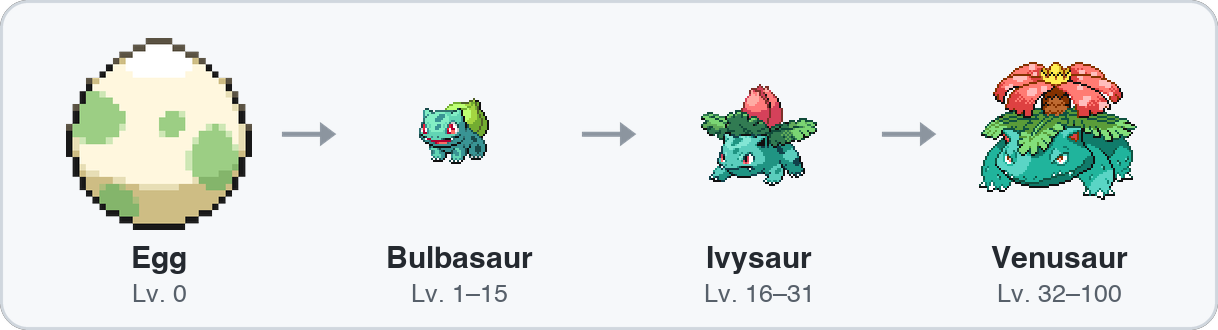
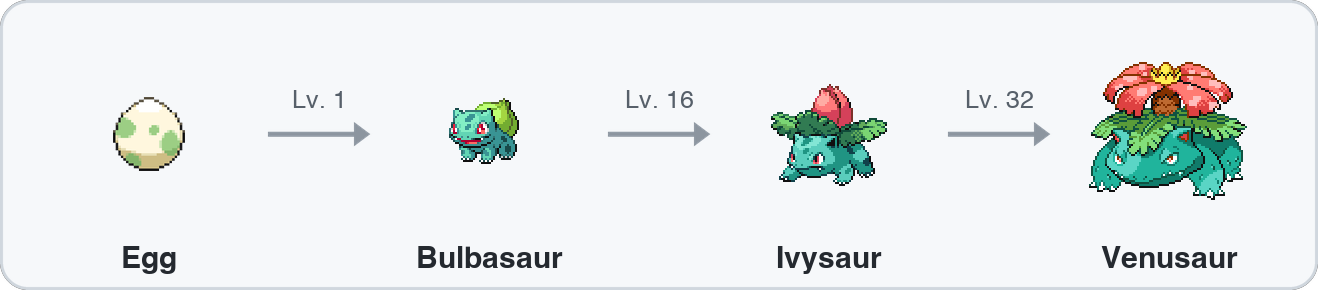
README: simplify progression and friendship visuals
Shrink the egg to match stage-1 sprites, show evolution levels above the
arrows, drop the starter-line table and the heart-burst text, make the
friendship image caption-free, and center/double the header sprites.

diff --git a/README.md b/README.md
@@ -1,9 +1,9 @@
 # PokeTasks
 
-<p>
-  <img src="Assets/Sprites/Gen_1/bulbasaur.png" width="64" alt="Bulbasaur">
-  <img src="Assets/Sprites/Gen_1/charmander.png" width="64" alt="Charmander">
-  <img src="Assets/Sprites/Gen_1/squirtle.png" width="64" alt="Squirtle">
+<p align="center">
+  <img src="Assets/Sprites/Gen_1/bulbasaur.png" width="128" alt="Bulbasaur">
+  <img src="Assets/Sprites/Gen_1/charmander.png" width="128" alt="Charmander">
+  <img src="Assets/Sprites/Gen_1/squirtle.png" width="128" alt="Squirtle">
 </p>
 
 A personal to-do list with a gamified twist that lives in your Mac's menu bar. Every task you check off levels up a Pokémon, and your collection grows as you get things done.
@@ -42,14 +42,10 @@ A personal to-do list with a gamified twist that lives in your Mac's menu bar. E
 Every completed task (or subtask) is **one level**, up to level 100. You start with three eggs: Bulbasaur, Charmander, and Squirtle. Your first completed task hatches the one you have active, and from there it evolves at its natural levels.
 
 <p align="center">
-  <img src="docs/images/evolution.png" width="760" alt="Egg to Bulbasaur at levels 1 to 15, Ivysaur at 16 to 31, Venusaur at 32 to 100">
+  <img src="docs/images/evolution.png" width="760" alt="An egg hatches into Bulbasaur at level 1, evolves into Ivysaur at level 16, then Venusaur at level 32">
 </p>
 
-| Starter line | Stage 1 | Stage 2 | Stage 3 |
-| --- | --- | --- | --- |
-| Bulbasaur | Bulbasaur, Lv. 1–15 | Ivysaur, Lv. 16–31 | Venusaur, Lv. 32–100 |
-| Charmander | Charmander, Lv. 1–15 | Charmeleon, Lv. 16–35 | Charizard, Lv. 36–100 |
-| Squirtle | Squirtle, Lv. 1–15 | Wartortle, Lv. 16–35 | Blastoise, Lv. 36–100 |
+Charmander and Squirtle follow the same path, evolving at levels 16 and 36.
 
 A Pokémon's name follows its evolution automatically. Give it a nickname (double-click the name) and your nickname sticks instead.
 
@@ -58,11 +54,10 @@ A Pokémon's name follows its evolution automatically. Give it a nickname (doubl
 Each Pokémon has its own heart that works like a completion streak.
 
 <p align="center">
-  <img src="docs/images/friendship.png" width="640" alt="A heart filling up from 0 of 10 to 10 of 10">
+  <img src="docs/images/friendship.png" width="480" alt="A heart filling up from empty to full">
 </p>
 
 - **Goes up:** every task or subtask you complete while a Pokémon is active adds **1** heart level, up to **10**.
-- **Heart burst:** every time the meter reaches 10, hearts burst around your Pokémon. This happens again each time it climbs back to 10 after dropping.
 - **Decays:** if you go **12 hours** without completing anything for that Pokémon, it loses 1 level, and keeps losing 1 for every further 12 hours, down to 0. Completing a task resets the clock.
 - **Only the active Pokémon decays.** Pokémon sitting in the PC Box are paused, and a Pokémon's clock starts fresh when you make it active again.
 - Resetting a Pokémon, or turning it shiny, resets its friendship to 0.
